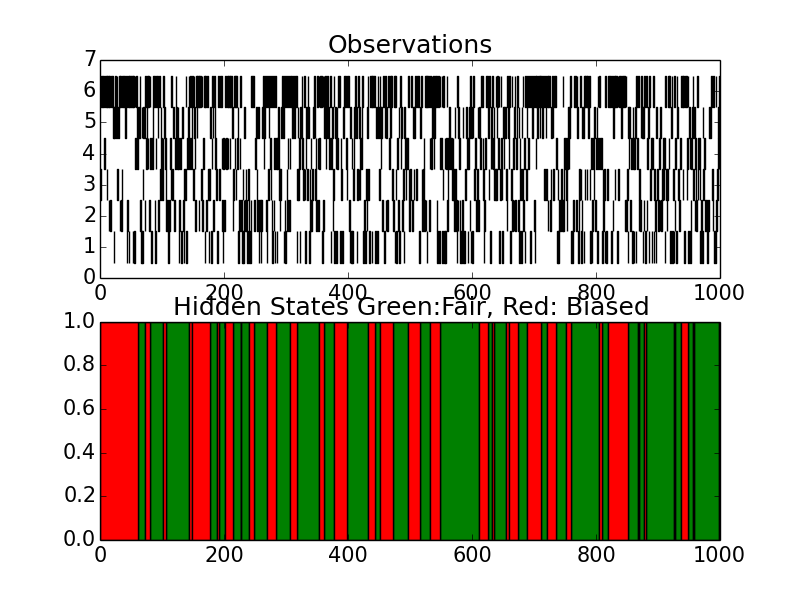
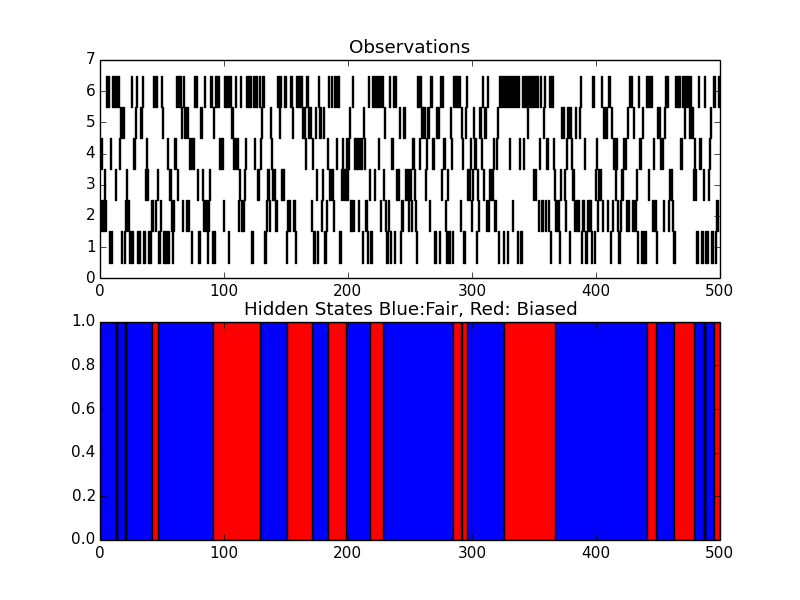
hmm

diff --git a/hidden_markov_model/first_example/hmm.py b/hidden_markov_model/first_example/hmm.py
@@ -1,35 +1,49 @@
+'''
+   based on: http://nipunbatra.github.io/2013/05/simulating-a-discrete-hidden-markov-model/
+   Unfair cassino problem: there may be two die, one fair and other biased. 
+   The biased die is much more likely to produce a 6 than others (p=0.5).
+   The observer is only able to observe the values of die being thrown without
+   having a knowledge whether a fair or biased die were used:
+
+   observed states: 1 to 6 on the die faces
+   hidden states: fair or biased die
+   prior: probability that the first thworn is made from a fair or biased die
+   transition matrix A: matrix enconding the prob of the 4 possible transition 
+       between fair and biased die
+   emission matrix B: matrix enconding the prob of an obsevation given the hidden
+       state
+'''
+
 import numpy as np
 import matplotlib.pyplot as plt
 import matplotlib
 import random
 
 # plot setup
-matplotlib.rcParams.update({'font.size': 15})
+matplotlib.rcParams.update({'font.size': 11})
 
 
-# setting the components of HMM
+''' 
+    setting the components of HMM
+    prior: a fair die is twice as likely as biased die
+    A : 
+    	1. Fair -> Fair: .95
+    	2. Fair -> Biased: 1-.95 =.05
+    	3. Biased -> Biased: .90
+    	4. Biased -> Biased: 1-.90 =.10
+
+    B: 
+    	Pr(6)= 0.5 
+        Pr(1)= Pr(2)= Pr(3)= Pr(4)= Pr(5)= 0.1
 '''
-    P: a fair die is twice as likely as biased die
 
-    A  : The die thrower likes to keep in one state (fair/biased), and the tranisition from 
-    1. Fair-> Fair : .95
-    2. Fair->Biased: 1-.95=.05
-    3. Biased->Biased: .90
-    4. Biased->Biased=1-.90=.10
-
-    B  : The fair die is equally likely to produce observations 1 through 6, for the biased die
-    Pr(6)=0.5 and Pr(1)=Pr(2)=Pr(3)=Pr(4)=Pr(5)=0.1
-'''
-
-P = np.array([2.0/3,1.0/3])
+prior = np.array([2.0/3,1.0/3])
 A = np.array([[.95,.05],[.1,.9]])
 B = np.array([[1.0/6 for i in range(6)],[.1,.1,.1,.1,.1,.5]])
 
 
 
-'''
-   Returns next state according to weigted probability array. 
-'''
+# return next state to the weighted probability array
 def next_state(weights):
     choice = random.random() * sum(weights)
     for i, w in enumerate(weights):
@@ -38,33 +52,35 @@ def next_state(weights):
             return i
 
 
-
-def create_hidden_sequence(P,A,length):
+def create_hidden_sequence(prior, A, length):
     out=[None]*length
-    out[0]=next_state(P)
+    out[0]=next_state(prior)
     for i in range(1,length):
         out[i]=next_state(A[out[i-1]])
     return out
 
-def create_observation_sequence(hidden_sequence,B):
+
+def create_observation_sequence(hidden_sequence, B):
     length=len(hidden_sequence)
     out=[None]*length
     for i in range(length):
         out[i]=next_state(B[hidden_sequence[i]])
     return out
 
-'''Group all contiguous values in tuple.'''
+
+# group all contiguous values in tuple
 def group(L):
     first = last = L[0]
     for n in L[1:]:
-        if n - 1 == last: # Part of the group, bump the end
+        if n - 1 == last: 
             last = n
-        else: # Not part of the group, yield current group and start a new
+        else: 
             yield first, last
             first = last = n
-    yield first, last # Yield the last group
+    yield first, last 
 
-'''Create tuples of the form (start, number_of_continuous values'''
+
+# create tuples of the form (start, number_of_continuous values)
 def create_tuple(x):
     return [(a,b-a+1) for (a,b) in x]
 
@@ -73,41 +89,44 @@ def create_tuple(x):
 
 if __name__ == '__main__':
 	count = 0
+	num_calls = 500
 
-	for i in range(1000):
-	    count += next_state(P)
+	for i in range(num_calls):
+	    count += next_state(prior)
 
-	print "Expected number of Fair states:", 1000-count
-	print "Expected number of Biased states:", count
+	print("Expected number of Fair states:", num_calls-count)
+	print("Expected number of Biased states:", count)
 
-	
+    # Create the sequences
+	hidden = np.array(create_hidden_sequence(prior, A, num_calls))
+	observed = np.array(create_observation_sequence(hidden, B))
+	print('Observed: ', observed)
+	print('Hidden: ', hidden)
 
-	hidden=np.array(create_hidden_sequence(P,A,1000))
-	observed=np.array(create_observation_sequence(hidden,B))
+	# Tuples of form index value, number of continuous values corresponding to Fair State
+	indices_hidden_fair = np.where(hidden==0)[0]
+	tuples_contiguous_values_fair = list(group(indices_hidden_fair))
+	tuples_start_break_fair = create_tuple(tuples_contiguous_values_fair)
 
-	#Tuples of form index value, number of continuous values corresponding to Fair State
-	indices_hidden_fair=np.where(hidden==0)[0]
-	tuples_contiguous_values_fair=list(group(indices_hidden_fair))
-	tuples_start_break_fair=create_tuple(tuples_contiguous_values_fair)
+	# Tuples of form index value, number of continuous values corresponding to Biased State
+	indices_hidden_biased = np.where(hidden==1)[0]
+	tuples_contiguous_values_biased = list(group(indices_hidden_biased))
+	tuples_start_break_biased = create_tuple(tuples_contiguous_values_biased)
 
-	#Tuples of form index value, number of continuous values corresponding to Biased State
-	indices_hidden_biased=np.where(hidden==1)[0]
-	tuples_contiguous_values_biased=list(group(indices_hidden_biased))
-	tuples_start_break_biased=create_tuple(tuples_contiguous_values_biased)
-
-	#Tuples for observations
+	# Tuples for observations
 	observation_tuples=[]
 	for i in range(6):
 	    observation_tuples.append(create_tuple(group(list(np.where(observed==i)[0]))))
 
+    # Make plots
 	plt.subplot(2,1,1)
-	plt.xlim((0,1000));
+	plt.xlim((0, num_calls));
 	plt.title('Observations');
 	for i in range(6):
 	    plt.broken_barh(observation_tuples[i],(i+0.5,1),facecolor='k');
 	plt.subplot(2,1,2);
-	plt.xlim((0,1000));
-	plt.title('Hidden States Green:Fair, Red: Biased');
-	plt.broken_barh(tuples_start_break_fair,(0,1),facecolor='g');
+	plt.xlim((0, num_calls));
+	plt.title('Hidden States Blue:Fair, Red: Biased');
+	plt.broken_barh(tuples_start_break_fair,(0,1),facecolor='b');
 	plt.broken_barh(tuples_start_break_biased,(0,1),facecolor='r');
 	plt.savefig('hmm.png')
